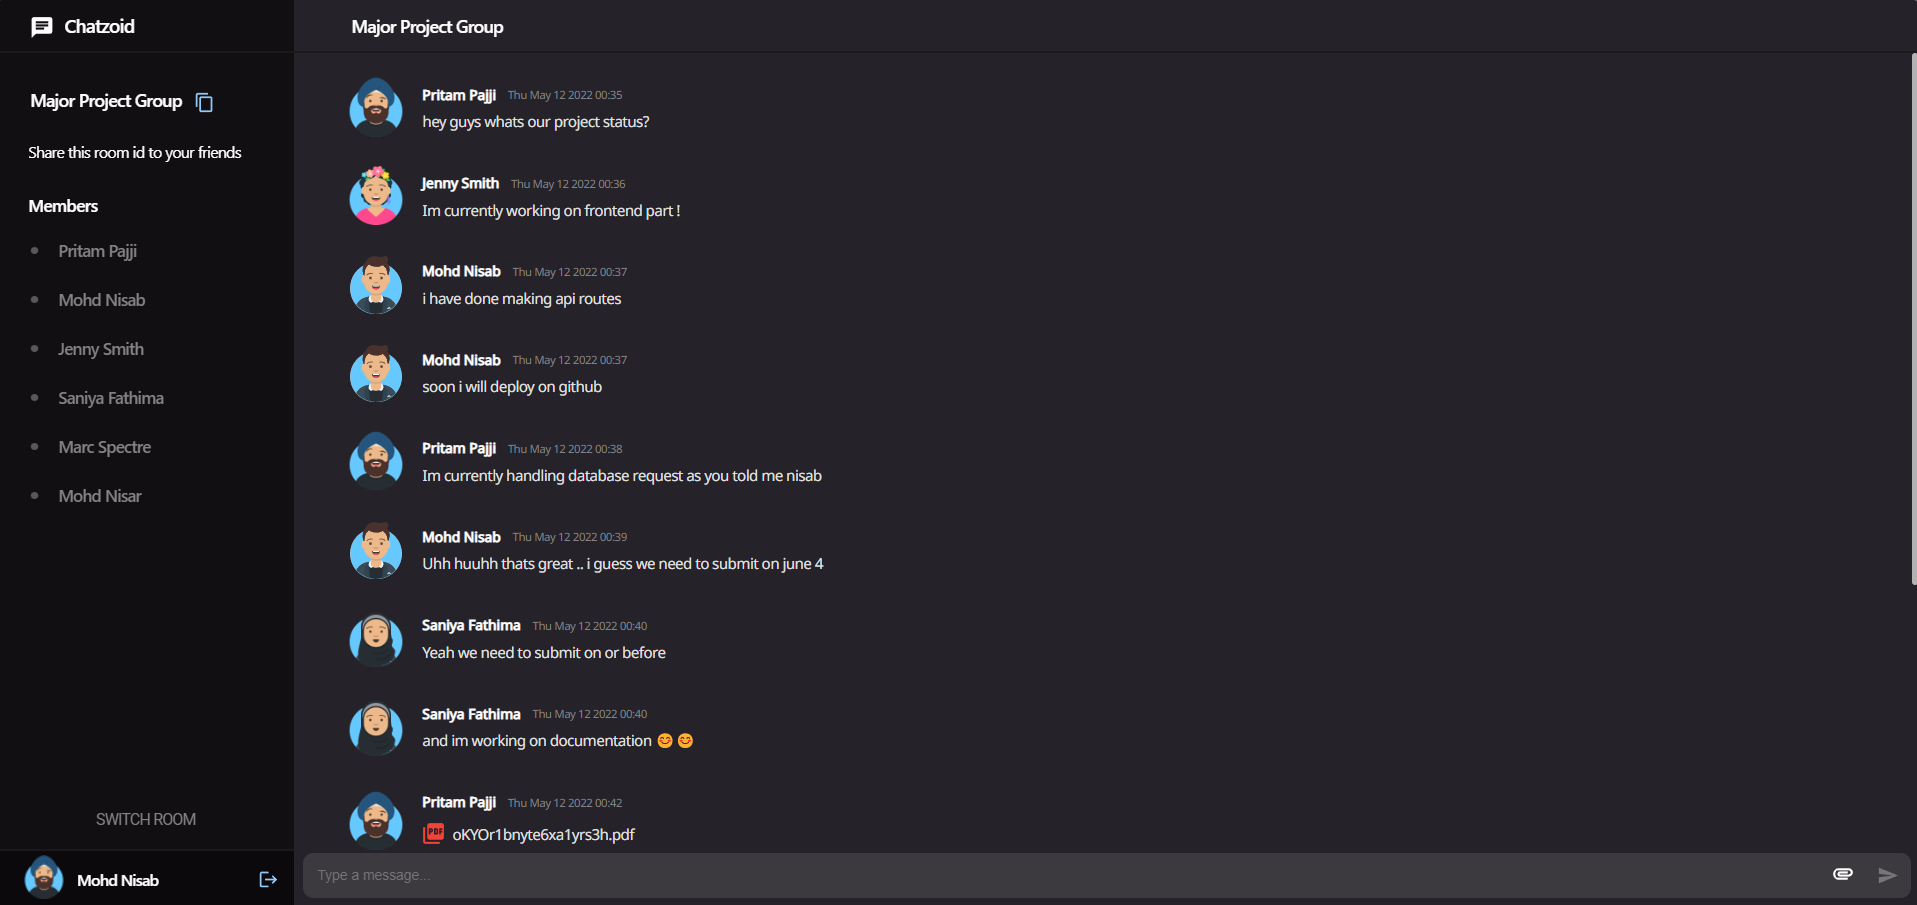
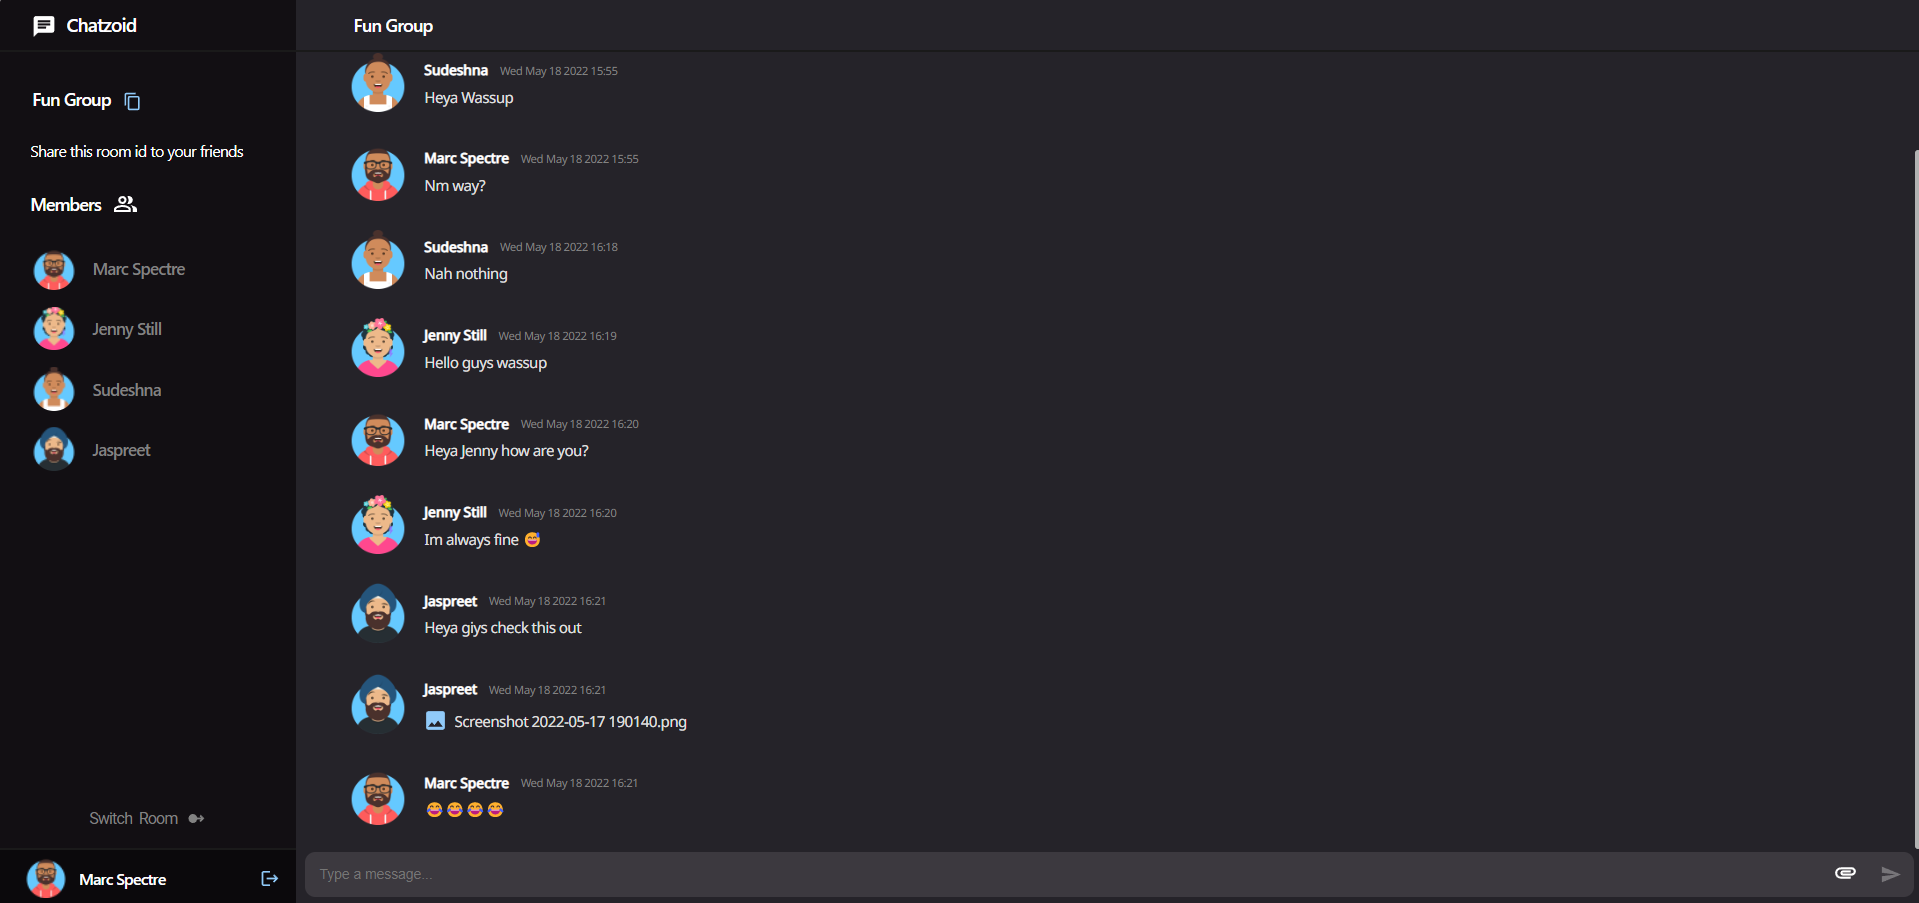
left bar user images

diff --git a/src/Leftbar.js b/src/Leftbar.js
@@ -3,8 +3,8 @@ import ChatIcon from '@mui/icons-material/Chat';
 import LogoutIcon from '@mui/icons-material/Logout';
 import { collection, onSnapshot, query } from 'firebase/firestore';
 import { db } from './firebase';
-import { Button } from '@mui/material';
-import FiberManualRecordIcon from '@mui/icons-material/FiberManualRecord';
+import { Avatar, Button } from '@mui/material';
+// import FiberManualRecordIcon from '@mui/icons-material/FiberManualRecord';
 import MenuIcon from '@mui/icons-material/Menu';
 import './css/Responsive.css'
 import ArrowBackIosNewIcon from '@mui/icons-material/ArrowBackIosNew';
@@ -16,7 +16,8 @@ import DialogActions from '@mui/material/DialogActions';
 import DialogContent from '@mui/material/DialogContent';
 import DialogContentText from '@mui/material/DialogContentText';
 import DialogTitle from '@mui/material/DialogTitle';
-
+import SwipeRightAltIcon from '@mui/icons-material/SwipeRightAlt';
+import PeopleAltOutlinedIcon from '@mui/icons-material/PeopleAltOutlined';
 
 export const Leftbar = (props) => {
 
@@ -32,11 +33,16 @@ export const Leftbar = (props) => {
   const handleClose = () => {
     setOpen(false);
   };
+  const map = new Map();
   useEffect(
     () => {
-      onSnapshot(qr, (snapshot) => setUser(snapshot.docs.map((doc) => doc.data().name)))
+      onSnapshot(qr, (snapshot) => setUser(snapshot.docs.map((doc) => [{ name: doc.data().name, img: doc.data().userimg }])))
     }
     , []);
+  user.forEach((item) => {
+    map.set(item[0].name, item[0].img);
+  })
+
   //  function getPhoto(name) {
   //   const q = query(collection(db, props.roomid), where("name", "==", name), limit(1));
   //   let querySnapshot;
@@ -82,7 +88,7 @@ export const Leftbar = (props) => {
         </div>
 
         <div className="rommspecificidandp" style={{ display: 'flex', flexDirection: 'row', alignItems: 'center', marginTop: '34px' }}>
-          <p style={{ color: 'white', font: 'Noto Sans', fontWeight: '500', fontStyle: 'normal', fontSize: '17px', letterSpacing: '-0.035em', marginLeft: '31px', marginRight: '26px', display: 'flex', flexDirection: 'row', alignItems: 'center' }}>{props.roomid}<ContentCopyIcon color="primary" style={{ marginLeft: '12px', width: '20.25px', marginBottom: '-6px', cursor: 'pointer' }} onClick={() => { navigator.clipboard.writeText(props.roomid); toast.success('Room id copied to clipboard'); }} /></p>
+          <p style={{ color: 'white', font: 'Noto Sans', fontWeight: '500', fontStyle: 'normal', fontSize: '16.85px', letterSpacing: '-0.035em', marginLeft: '31px', marginRight: '26px', display: 'flex', flexDirection: 'row', alignItems: 'center' }}>{props.roomid}<ContentCopyIcon color="primary" style={{ marginLeft: '12px', width: '18.25px', marginBottom: '-6px', cursor: 'pointer' }} onClick={() => { navigator.clipboard.writeText(props.roomid); toast.success('Room id copied to clipboard'); }} /></p>
 
         </div>
 
@@ -91,30 +97,32 @@ export const Leftbar = (props) => {
         </div>
 
 
-        <h5 style={{ color: 'white', font: 'Noto Sans', fontWeight: '500', fontStyle: 'normal', fontSize: '16.5px', letterSpacing: '-0.035em', marginTop: '29px', marginLeft: '29px' }}>Members</h5>
+        <h5 style={{ color: 'white', font: 'Noto Sans', fontWeight: '500', fontStyle: 'normal', fontSize: '16.85px', letterSpacing: '-0.035em', marginTop: '29px', marginLeft: '29px', marginBottom: '12px', display: 'flex', flexDirection: 'row', alignItems: 'center' }}>Members <PeopleAltOutlinedIcon style={{ marginLeft: "12px", marginBottom: '-1.5px' }} /></h5>
         <div className="sepater" style={{ overflowY: 'scroll', height: '58vh' }}>
-          <div className="roomidandstuff" style={{ display: 'flex', flexDirection: 'row', padding: '0 29px', marginTop: '-2.5px', marginBottom: '23.5px' }}>
+          <div className="roomidandstuff" style={{ display: 'flex', flexDirection: 'row', padding: '0 29px', marginTop: '-2.5px', marginBottom: '20.5px' }}>
           </div>
           {
-            Array.from(new Set(user)).map((item) => {
+            Array.from(map, ([key, value]) => {
               return (
-                <div className="people" style={{ display: 'flex', flexDirection: 'row', alignItems: 'center', marginTop: '22px', marginBottom: '12px' }}>
-                  <FiberManualRecordIcon color="disabled" style={{ width: '10px', marginLeft: '29.99px', marginTop: '1px' }} />
-                  {/* <Avatar style={{ width: '41.12px', height: '42px', borderRadius: '100%', marginLeft: '29.99px' }} alt="" /> */}
-                  <p style={{ color: '#828282', marginLeft: '17.9px', font: 'Noto Sans', fontWeight: '500', fontStyle: 'normal', fontSize: '16px', letterSpacing: '-0.035em' }}>{item}</p>
+                <div className="people" style={{ display: 'flex', flexDirection: 'row', alignItems: 'center', marginTop: '16px', marginBottom: '12px' }}>
+                  {/* <FiberManualRecordIcon color="disabled" style={{ width: '10px', marginLeft: '29.99px', marginTop: '1px' }} /> */}
+                  <div className="imagebox" style={{ width: '42px', height: '42px', borderRadius: '100%', marginLeft: '30.99px' }}>
+                    <Avatar src={value} style={{ width: '42px', height: '42px' }} alt="" />
+                  </div>
+                  <p style={{ color: '#828282', marginLeft: '15.9px', font: 'Noto Sans', fontWeight: '500', fontStyle: 'normal', fontSize: '16px', letterSpacing: '-0.035em' }}>{key}</p>
                 </div>)
             })
           }
         </div>
         <div className="switchroom" style={{ width: '100%', position: 'absolute', bottom: '68px', display: 'flex', justifyContent: 'center', alignItems: 'center' }}>
-          <Button onClick={() => { props.switchroom() }} size="small" sx={{ color: '#828282', font: 'Noto Sans', fontWeight: '500', fontStyle: 'normal', fontSize: '15px', letterSpacing: '-0.039em' }}>
-            switch room
+          <Button onClick={() => { props.switchroom() }} size="small" sx={{ color: '#828282', font: 'Noto Sans', fontWeight: '500', fontStyle: 'normal', fontSize: '15px', letterSpacing: '-0.039em', textTransform: 'lowercase' }}>
+            <span style={{ textTransform: 'uppercase' }}>s</span> witch &nbsp; <span style={{ textTransform: 'uppercase' }}> r</span>oom <SwipeRightAltIcon style={{ width: '21px', marginLeft: "7px" }} />
           </Button>
         </div>
         <div className="userdetails" style={{ marginTop: 'auto', display: 'flex', flexDirection: 'row', alignItems: 'center', position: 'absolute', bottom: '0px', height: '55px', backgroundColor: '#0B090C', width: '100%', borderTop: '2px solid rgb(26,26,26)' }}>
           <img src={props.photo} style={{ width: '40px', height: '42px', borderRadius: '7px', marginLeft: '24px', marginTop: '-4.5px' }} alt="" />
           <h5 style={{ marginLeft: '12px', color: 'white', font: 'Noto Sans', fontWeight: '500', fontStyle: 'normal', fontSize: '15px', letterSpacing: '-0.035em', zIndex: '99' }}>{props.name}</h5>
-          <button onClick={() => { handleClickOpen() }} style={{ cursor: 'pointer', width: 'fit-content%', marginLeft: '221px', outline: 'none', border: 'none', backgroundColor: 'transparent', position: 'absolute', left: '29px', marginTop: '4px' }}><LogoutIcon color="primary" style={{ width: '20px' }}></LogoutIcon></button>
+          <button onClick={() => { handleClickOpen() }} style={{ cursor: 'pointer', width: 'fit-content%', marginLeft: '221px', outline: 'none', border: 'none', backgroundColor: 'transparent', position: 'absolute', left: '29px', marginTop: '4px' }}><LogoutIcon color="primary" style={{ width: '19.2px' }}></LogoutIcon></button>
           <Dialog
             open={open}
             onClose={handleClose}

diff --git a/src/Chat.jsx b/src/Chat.jsx
@@ -172,7 +172,7 @@ function Chat(props) {
                                             </div>
                                             {
                                                 item.text.includes('http') ? (
-                                                    <div className="file" style={{ border: '0px solid #616161', borderRadius: '9px', padding: '2px 2px', marginTop: '5px', backgroundColor: '', paddingBottom: '10px', overflowX: 'scroll', marginBottom: '-3px', zIndex: '99' }}>
+                                                    <div className="file" style={{ border: '0px solid #616161', borderRadius: '9px', padding: '2px 2px', marginTop: '5px', backgroundColor: '', paddingBottom: '3px', overflowX: 'scroll', marginBottom: '-3px', zIndex: '99' }}>
                                                         <a key={index} href={item.text} target="_blank" className="chat__body__message" rel="noreferrer" style={{ display: 'flex', alignItems: 'center', paddingTop: '0px', textDecoration: 'none', MarginRight: '9px', marginLeft: '-3px', marginBottom: '-3px' }}>
                                                             {
 
